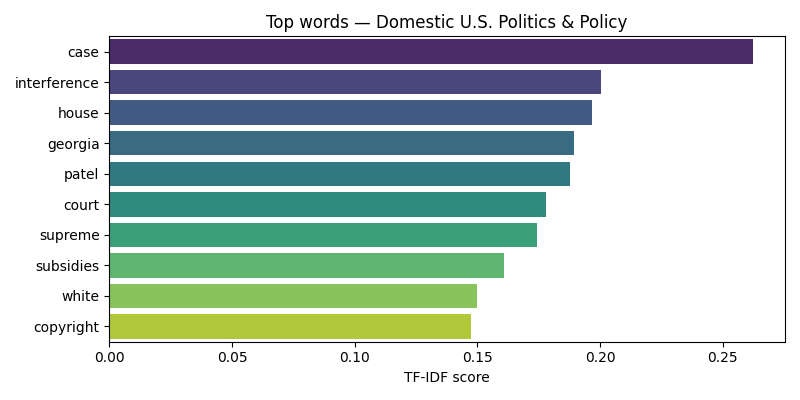
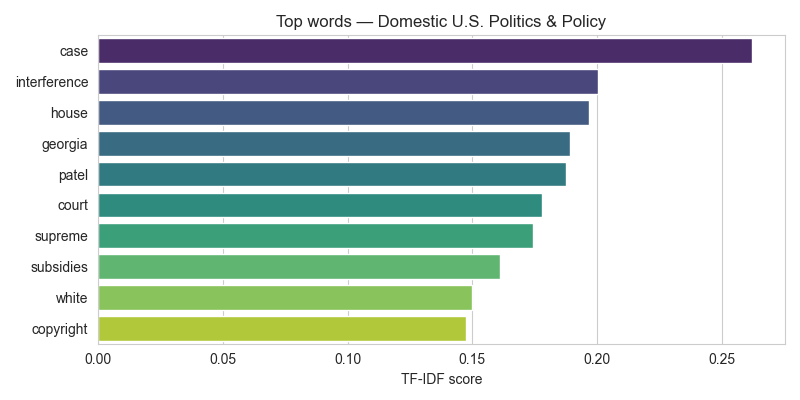
new tf idf visuals

Changed region(s): [[0.0, 0.03, 0.9688, 0.96]]

diff --git a/scripts/create_tfidf_visual.py b/scripts/create_tfidf_visual.py
@@ -16,6 +16,8 @@ def safe_name(s):
         name = name.replace("__", "_")
     return name.strip("_")
 
+topics_data = []
+global_max = 0.0
 for _, row in df.iterrows():
     topic = row["topic"]
     words = []
@@ -24,7 +26,7 @@ for _, row in df.iterrows():
         w_col = f"word_{i}"
         s_col = f"score_{i}"
         if pd.notna(row.get(w_col)):
-            words.append(row[w_col])
+            words.append(str(row[w_col]))
             scores.append(float(row.get(s_col, 0.0)))
 
     if not words:
@@ -33,10 +35,36 @@ for _, row in df.iterrows():
     pairs = sorted(zip(words, scores), key=lambda ws: ws[1], reverse=True)
     words_sorted, scores_sorted = zip(*pairs)
 
-    plt.figure(figsize=(8, max(3, len(words_sorted) * 0.4)))
-    sns.barplot(x=list(scores_sorted), y=list(words_sorted), palette="viridis")
+    topics_data.append((topic, list(words_sorted), list(scores_sorted)))
+    if max(scores_sorted) > global_max:
+        global_max = max(scores_sorted)
+
+sns.set_style("whitegrid")
+for topic, words, scores in topics_data:
+    plt.figure(figsize=(8, max(3, len(words) * 0.4)))
+    sns.barplot(x=list(scores), y=list(words), palette="viridis")
     plt.xlabel("TF-IDF score")
     plt.title(f"Top words — {topic}")
     plt.tight_layout()
     plt.savefig(os.path.join(OUT_DIR, f"{safe_name(topic)}_bar.png"))
     plt.close()
+
+if topics_data:
+    n = len(topics_data)
+    fig, axes = plt.subplots(nrows=n, ncols=1, figsize=(12, 2.5 * n), constrained_layout=True)
+    if n == 1:
+        axes = [axes]
+
+    for ax, (topic, words, scores) in zip(axes, topics_data):
+        x = range(len(words))
+        ax.bar(x, scores, color="C0")
+        ax.set_xticks(x)
+        ax.set_xticklabels(words, rotation=45, ha="right")
+        ax.set_ylim(0, global_max * 1.05 if global_max > 0 else None)
+        ax.set_title(topic, loc="center", fontsize=10)
+        ax.set_ylabel("TF-IDF")
+
+    fig.suptitle("TF-IDF Scores for Each Category", fontsize=14, y=1.02)
+    out_path = os.path.join(OUT_DIR, "all_topics_bars.png")
+    fig.savefig(out_path, bbox_inches="tight", dpi=200)
+    plt.close(fig)
